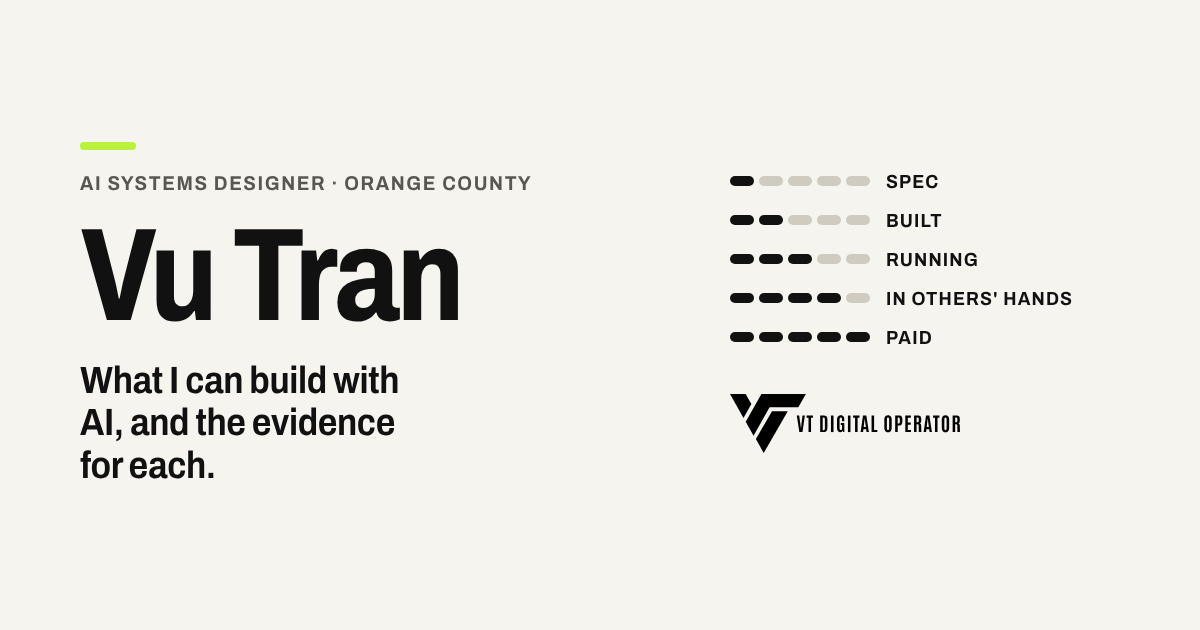
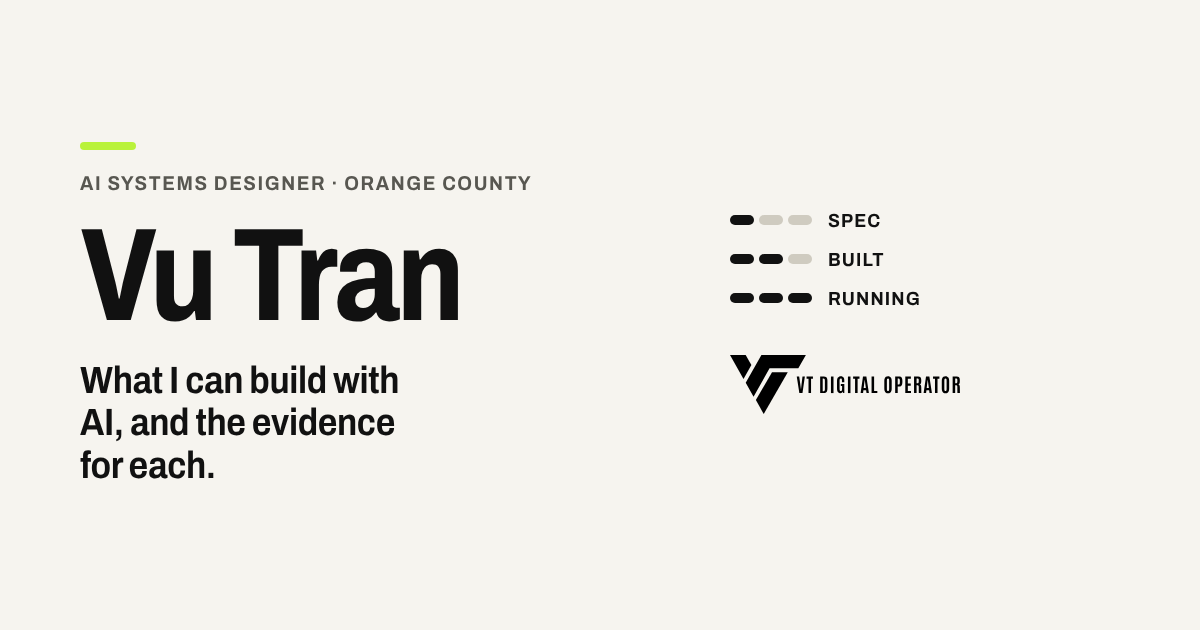
Log: VT Field, Work Release, member directory; add Sites section; hide unreached levels
- Three new builds: VT Field (iOS card capture), VTDO Work Release (signature + PDF),
  OC PRO member directory
- Sites I've built: 8 live sites with screenshots, labeled My site / Spec build
- In others' hands and Paid hidden until a build reaches them; they reappear on their own
- Share image redrawn with the three visible levels

Claude-Session: https://claude.ai/code/session_016H4a1QajHybeJ8DsUDTjCW

diff --git a/src/styles.css b/src/styles.css
@@ -215,7 +215,7 @@ button.tag::after { content: " ↗"; font-family: var(--font); }
 
 .history { list-style: none; margin: 8px 0 0; padding: 0; border-top: 1px solid var(--rule); }
 .history li { display: grid; grid-template-columns: 1fr; gap: 8px; padding: 18px 0; border-bottom: 1px solid var(--rule); }
-@media (min-width: 760px) { .history li { grid-template-columns: 140px minmax(0, 1fr) auto; gap: 24px; align-items: start; } }
+@media (min-width: 760px) { .history li { grid-template-columns: 140px minmax(0, 1fr); gap: 24px; align-items: start; } }
 .h-when { font-size: 14px; font-weight: 650; color: var(--muted); font-variant-numeric: tabular-nums; }
 .history h3 { font-size: 18px; font-weight: 650; font-stretch: 92%; margin-bottom: 4px; }
 .history p { font-size: 15px; color: var(--muted); max-width: 64ch; }
@@ -236,3 +236,19 @@ dialog::backdrop { background: rgba(17, 17, 17, 0.55); }
 .sd-head h2 { font-size: 22px; }
 .sd-actions { display: flex; gap: 8px; flex-wrap: wrap; }
 #sd-body { margin: 0; padding: 20px; font-family: var(--mono); font-size: 13px; line-height: 1.6; white-space: pre-wrap; word-break: break-word; color: var(--text); }
+
+/* sites */
+.site-grid { display: grid; grid-template-columns: minmax(0, 1fr); gap: 20px; margin-top: 8px; }
+@media (min-width: 700px) { .site-grid { grid-template-columns: repeat(2, minmax(0, 1fr)); } }
+.site {
+  display: flex; flex-direction: column; gap: 8px; text-decoration: none; color: var(--text);
+  background: var(--panel); border: 1px solid var(--rule); border-radius: 8px; padding: 12px 12px 18px; min-width: 0;
+}
+.site:hover { border-color: var(--rule-strong); }
+.site img { width: 100%; height: auto; aspect-ratio: 16 / 10; object-fit: cover; border-radius: 6px; border: 1px solid var(--rule); background: var(--panel-alt); }
+.site-meta { display: flex; align-items: center; justify-content: space-between; gap: 12px; margin-top: 6px; padding-inline: 6px; }
+.site-kind { font-size: 12px; font-weight: 680; font-stretch: 92%; letter-spacing: 0.06em; text-transform: uppercase; }
+.site-meta time { font-size: 13px; color: var(--muted); font-variant-numeric: tabular-nums; }
+.site-name { font-size: 20px; font-weight: 650; font-stretch: 90%; line-height: 1.2; color: var(--ink); padding-inline: 6px; }
+.site-what { font-size: 15px; line-height: 1.5; color: var(--muted); padding-inline: 6px; }
+.site-url { font-size: 14px; font-weight: 600; padding-inline: 6px; margin-top: 2px; text-decoration: underline; text-decoration-color: var(--muted); text-underline-offset: 3px; }

diff --git a/README.md b/README.md
@@ -13,6 +13,7 @@ Everything on the page comes from `data/portfolio.json`. To add to it:
 | Learned or proved something worth noting | Add a line to the top of `log` |
 | Wrote a new skill | Bump `person.skillsAuthored`; add it to the right capability's `skills` |
 | Sharing a new skill publicly | Put a scrubbed copy in `public/skills/<slug>.md` and add it to `shared` |
+| Add a site | Screenshot the home page at 1440×900, save an 800×500 JPEG to `public/sites/`, and add an entry to `sites` (name, url, img, kind, date, what). Kind is `My site`, `Spec build` or `Client` |
 | Bump the date | `updated` (YYYY-MM-DD) |
 
 Then preview locally with `node build.mjs` (writes `dist/`), commit and push. Vercel builds it in about a minute.
@@ -26,6 +27,8 @@ Then preview locally with `node build.mjs` (writes `dist/`), commit and push. Ve
 | `running` | Live and in regular use, with dates |
 | `others` | Used by someone other than me |
 | `paid` | Delivered for a client or employer |
+
+`others` and `paid` are marked `"hidden": true` in `levels` for now. A hidden level appears on the page automatically the first time a build reaches it, so no level ever shows a zero.
 
 ### Rules for entries
 
